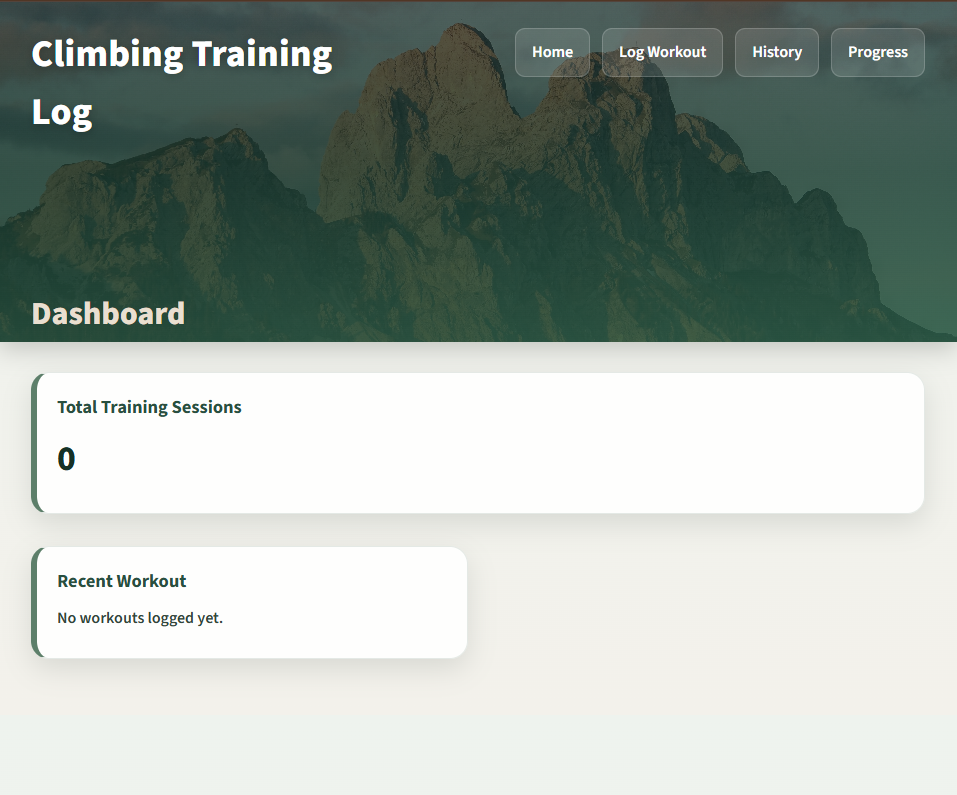
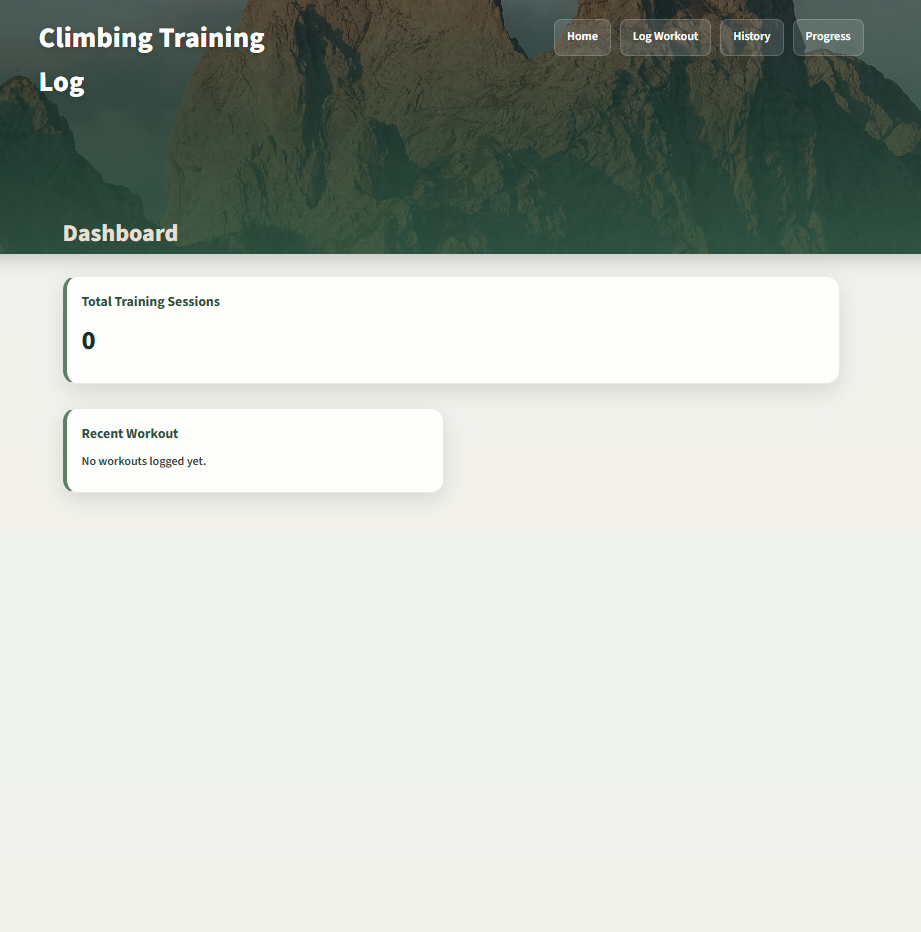
image cropping and added links

diff --git a/projects.html b/projects.html
@@ -159,14 +159,16 @@
             </ul>
 
             <div class="project-links">
-              <a href="https://drive.google.com/file/d/1AZlf80dYPW0GA_Mr9BlaWJ34dMQs1SRt/view?usp=sharing" target="_blank" rel="noopener noreferrer" class="btn btn-primary">View Report</a>
+              <a href="https://www.figma.com/make/8U13XMaxHq01uLo4IIDGnf/Portfoliate?p=f&t=d5EnJdUaPK9WTbl1-0&fullscreen=1" target="_blank" rel="noopener noreferrer" class="btn btn-primary">Live Demo</a>
+              <a href="https://www.figma.com/board/uTu2VEiQJFSeO8FN8wuODs/FIGJAM-Blueprint-for-project?node-id=0-1&t=Rq2k7rAxCKC1i4nh-1" target="_blank" rel="noopener noreferrer" class="btn btn-secondary">Figma Team Page</a>
+              <a href="https://drive.google.com/file/d/1AZlf80dYPW0GA_Mr9BlaWJ34dMQs1SRt/view?usp=sharing" target="_blank" rel="noopener noreferrer" class="btn btn-secondary">View Report</a>            
             </div>
           </div>
         </article>
 
         <article class="project-showcase" id="portfolio-project">
           <div class="project-image">
-            <img src="images/portfolio-preview.jpg" alt="Screenshot of Blaise Palombo portfolio website" />
+            <img src="images/portfolio-preview.png" alt="Screenshot of Blaise Palombo portfolio website" />
           </div>
 
           <div class="project-details">
@@ -188,7 +190,7 @@
             </ul>
 
             <div class="project-links">
-              <a href="https://portfolioblaisepalombo.netlify.app/" class="btn btn-primary" target="_blank" rel="noopener noreferrer">Live Site</a>
+              <a href="https://portfolioblaisepalombo.netlify.app/" class="btn btn-primary" target="_blank" rel="noopener noreferrer">Live Demo</a>
               <a href="https://github.com/blaisepalombo/personal_portfolio" class="btn btn-secondary" target="_blank" rel="noopener noreferrer">GitHub Repo</a>
             </div>
           </div>
